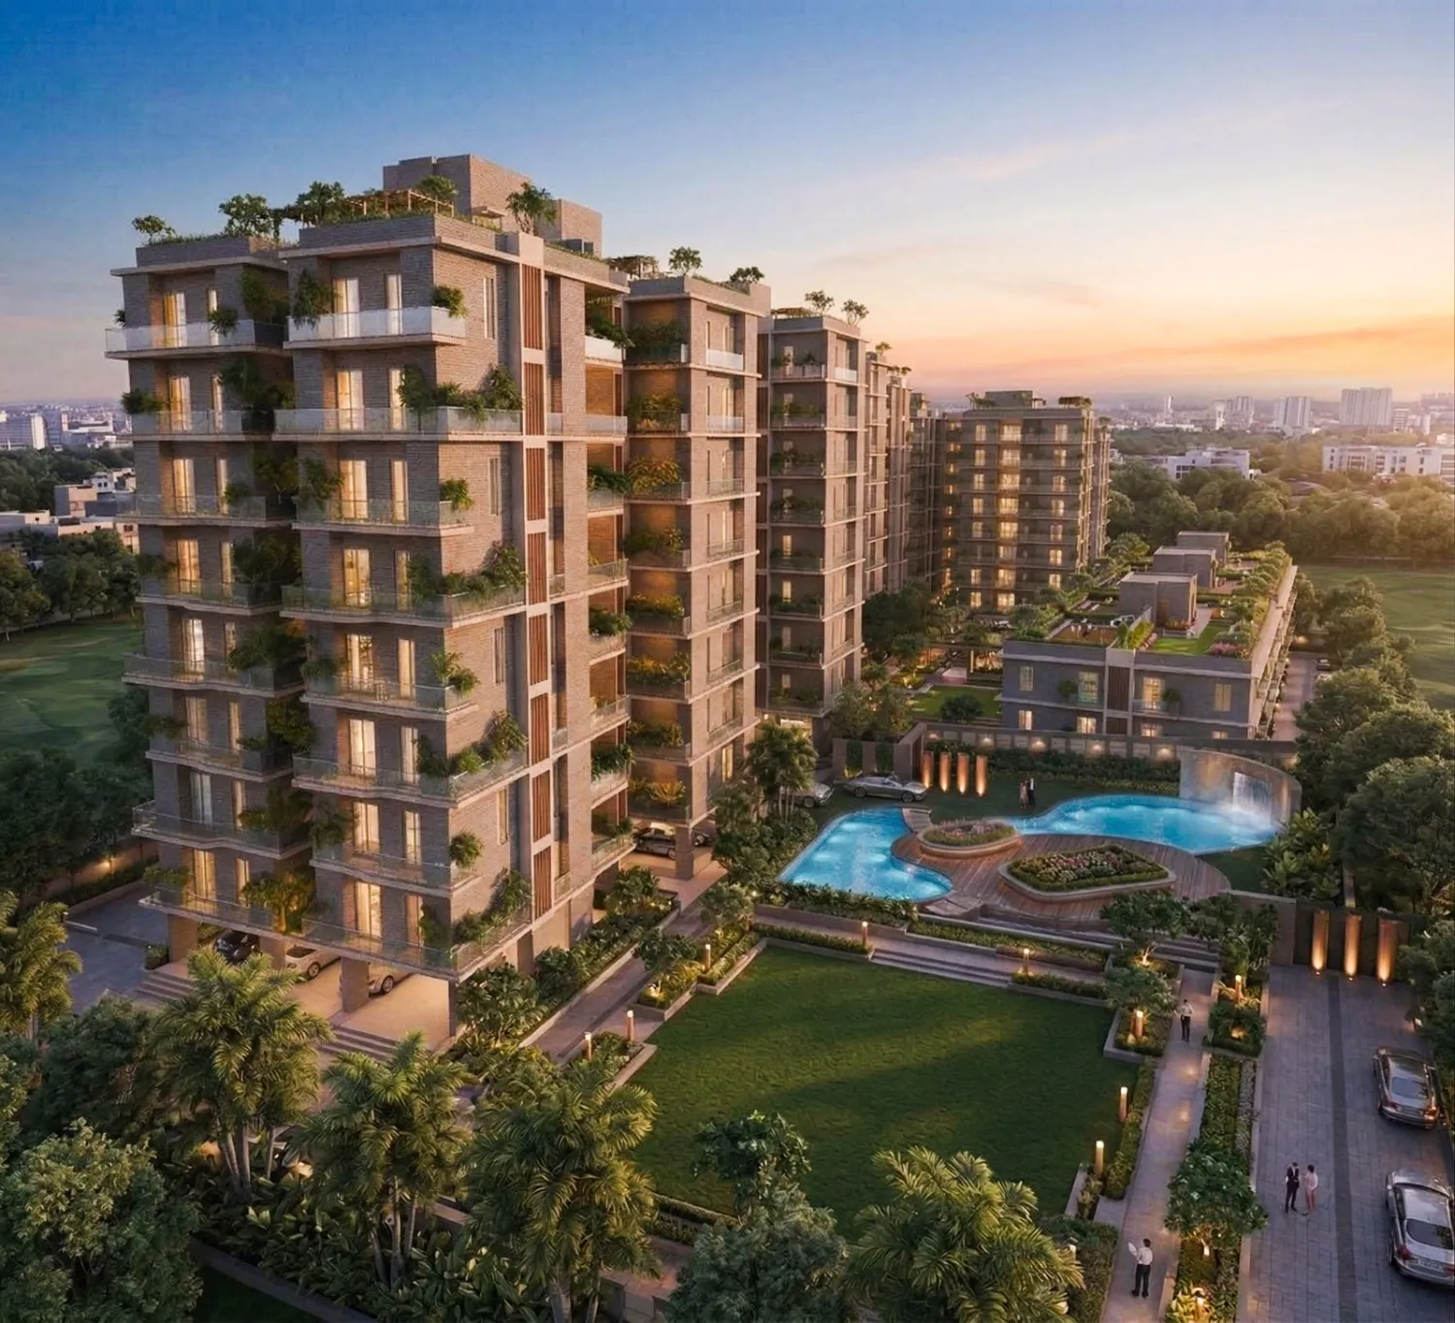
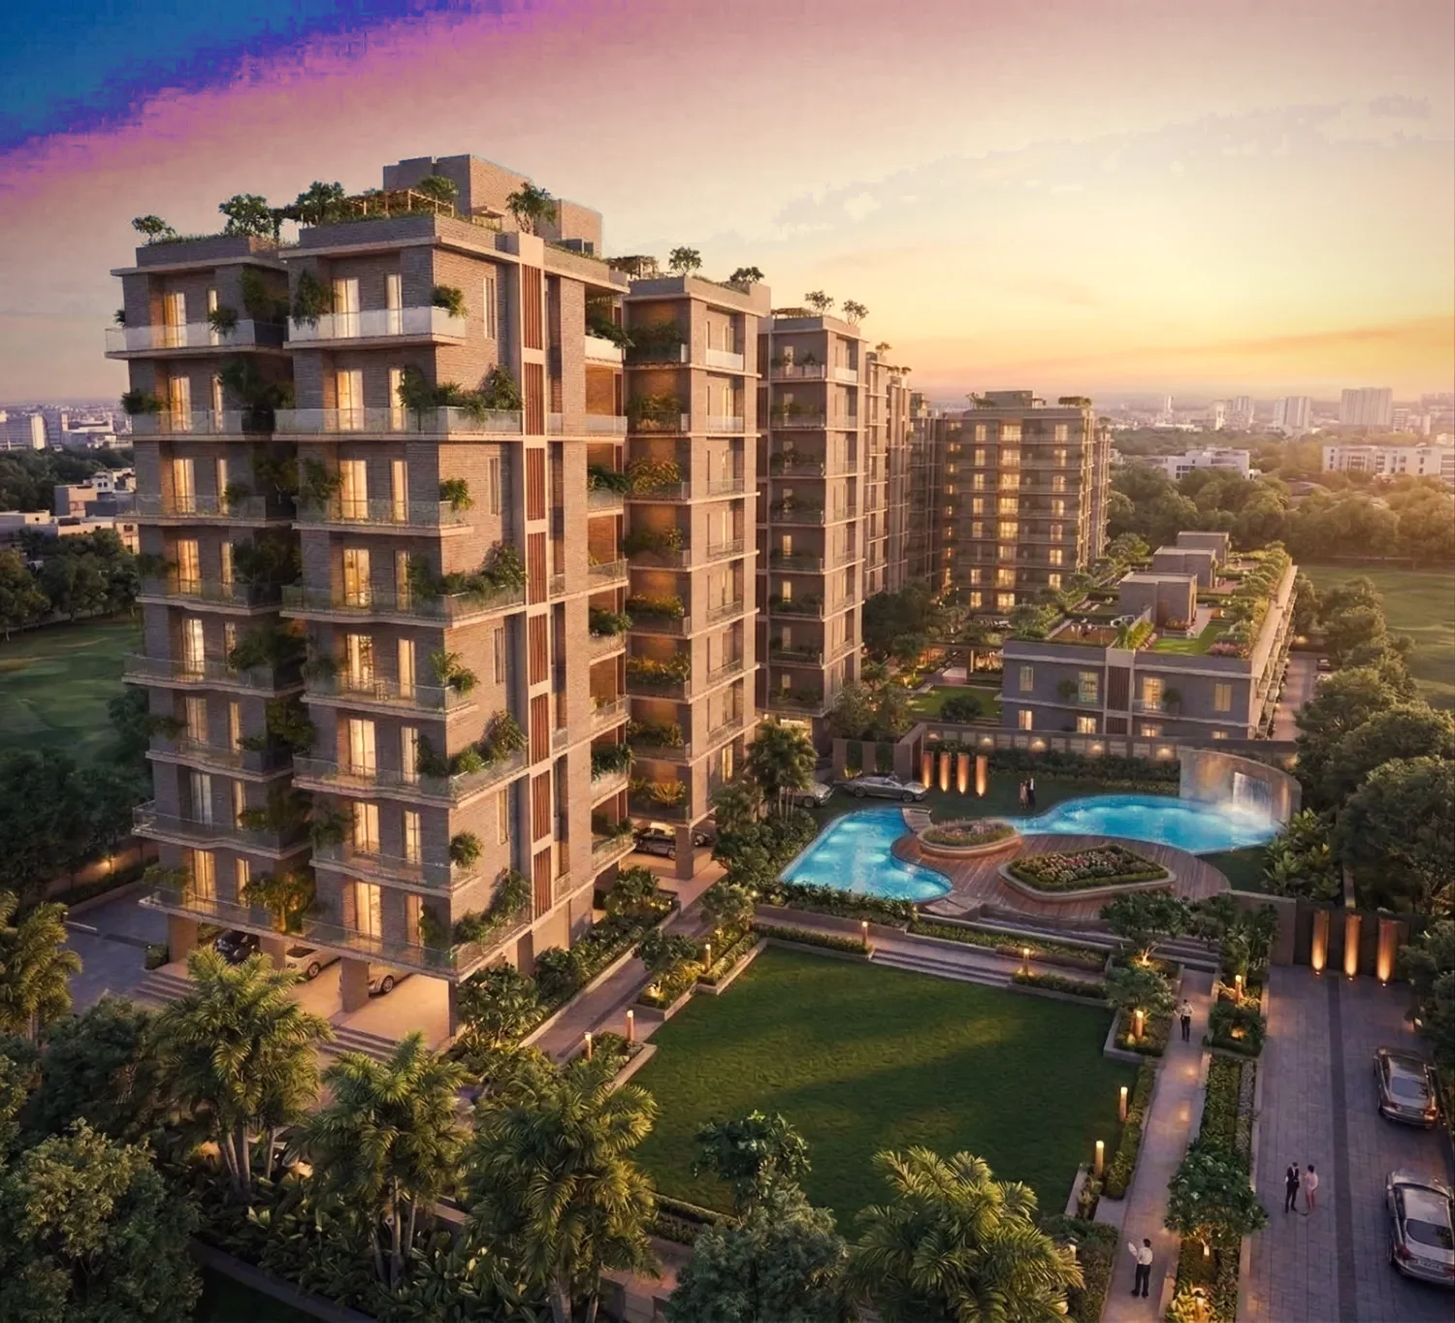
Luxe layer, warmer gallery and a calmer, steadier page
- New switchable assets/css/ananta-luxe.css: arrival curtain with the ANANTA mark,
  larger headlines, eyebrow diamonds, gold-leaf numerals and buttons, framed plan
  sheet, night-sky mobile menu, and a closing mark that lights up with the scroll
- Hero caption low-left on its own navy shadow; no continuous hero motion
- Closing image and compact footer fill the last screen with the logo on top
- Gentler golden-hour grades for Highlights and gallery images 1, 2 and 4
- Removed film grain and the blur-in on photos; no sideways overflow; steadier
  bottom bar flush to the edge; no blue tap flash
- Footer without the contact column; "Airport" instead of "NSCBI Airport"

diff --git a/assets/css/ananta.css b/assets/css/ananta.css
@@ -19,7 +19,7 @@
 *{box-sizing:border-box;-webkit-tap-highlight-color:transparent}
 html{scroll-behavior:smooth;scroll-padding-top:calc(var(--header) + 16px);scrollbar-width:none}
 html::-webkit-scrollbar{display:none}
-body{margin:0;background:var(--ivory);color:var(--ink);font:400 15px/1.75 var(--sans);-webkit-font-smoothing:antialiased;text-rendering:optimizeLegibility}
+body{margin:0;overflow-x:clip;background:var(--ivory);color:var(--ink);font:400 15px/1.75 var(--sans);-webkit-font-smoothing:antialiased;text-rendering:optimizeLegibility}
 body:has(dialog[open]:modal),.menu-open{overflow:hidden}
 h1,h2,h3,p,figure{margin:0}
 ul{list-style:none;margin:0;padding:0}
@@ -108,13 +108,20 @@ h3{font-family:var(--serif);font-weight:500;font-size:26px;line-height:1.2}
 .hero-image{width:100%;height:100%;max-width:none;object-fit:cover;object-position:center;animation:hero-in 2.4s var(--ease) both}
 .hero::before{content:'';position:absolute;inset:0 0 auto;z-index:1;height:18%;background:linear-gradient(180deg,#0c102066,#0c102000);pointer-events:none}
 /* The brochure's line, set high in the sky (never centred at the bottom) */
-.hero-caption{position:absolute;z-index:2;bottom:clamp(64px,11vh,120px);left:50%;width:min(1240px,calc(100% - 112px));transform:translateX(-50%);color:var(--white);text-shadow:0 2px 24px #0c102099;animation:caption-in 1.6s .3s var(--ease) both}
+.hero-caption{position:absolute;z-index:2;isolation:isolate;bottom:clamp(64px,11vh,120px);left:50%;width:min(1240px,calc(100% - 112px));transform:translateX(-50%);color:var(--white);text-shadow:0 2px 18px #0c1020cc,0 0 2px #0c102080}
+.hero-caption::before{content:'';position:absolute;z-index:-1;left:-12%;top:-34%;width:min(900px,120%);height:170%;background:radial-gradient(ellipse 58% 52% at 34% 56%,#0c1020f0 0%,#0c1020b8 42%,#0c102000 74%);filter:blur(10px);pointer-events:none}
+.hero-caption>*{animation:rise 1.4s var(--ease) both}
+.hero-caption>:nth-child(1){animation-delay:.35s}.hero-caption>:nth-child(2){animation-delay:.55s}.hero-caption>:nth-child(4){animation-delay:1.05s}
+.hero-caption>.horizon-rule{transform-origin:left;animation:draw 1.6s .85s var(--ease) both}
+@keyframes rise{from{opacity:0;transform:translateY(18px);filter:blur(6px)}to{opacity:1;transform:none;filter:none}}
+@keyframes draw{from{transform:scaleX(0)}to{transform:scaleX(1)}}
 .hero-caption .eyebrow{margin-bottom:18px;color:var(--champagne-soft)}
 .hero-caption h1{max-width:9.5em;font-size:clamp(48px,5.6vw,88px);line-height:1}
-.hero-caption h1 em{color:#ffdcae}
+.hero-caption h1 em{padding-right:.06em;background:linear-gradient(100deg,#ffd9a8 0%,#ffd9a8 35%,#fff4e2 48%,#f0b56a 60%,#ffd9a8 75%,#ffd9a8 100%) 0 0/260% 100%;-webkit-background-clip:text;background-clip:text;color:transparent;text-shadow:none;filter:drop-shadow(0 2px 14px #0c1020cc);animation:shimmer 7s 1.8s ease-in-out infinite}
+@keyframes shimmer{0%,55%{background-position:100% 0}100%{background-position:0 0}}
 @keyframes caption-in{from{opacity:0;transform:translate(-50%,16px)}to{opacity:1;transform:translateX(-50%)}}
 .hero::after{content:'';position:absolute;inset:auto 0 0;z-index:1;height:62%;background:linear-gradient(180deg,#0c102000 0%,#0c10204d 32%,#0c1020b3 66%,#0c1020eb 88%,var(--night) 100%);pointer-events:none}
-.hero-caption .horizon-rule{margin-top:26px}
+.hero-caption .horizon-rule{margin-top:26px;width:150px}
 .hero-place{margin-top:18px;font-size:11px;font-weight:500;letter-spacing:.3em;text-transform:uppercase;color:#ffffffc7}
 @keyframes hero-in{from{transform:scale(1.06)}to{transform:none}}
 
@@ -131,7 +138,10 @@ h3{font-family:var(--serif);font-weight:500;font-size:26px;line-height:1.2}
 .overview-actions .btn-brochure:hover{background:#ffffff14;border-color:var(--champagne);color:var(--white)}
 /* Facts sit on a smoked-glass band so the runway lights never wash them out; 1px gaps draw the grid */
 .project-facts{display:grid;grid-template-columns:repeat(6,minmax(0,1fr));gap:1px;margin-top:180px;background:#ffffff26;border:1px solid #ffffff26;backdrop-filter:blur(10px) saturate(1.3);-webkit-backdrop-filter:blur(10px) saturate(1.3)}
-.project-facts>div{display:flex;flex-direction:column;gap:12px;padding:28px 26px;background:#0c10204d;text-shadow:0 1px 10px #0009}
+.project-facts>div{position:relative;display:flex;flex-direction:column;gap:12px;padding:28px 26px;background:#0c10204d;text-shadow:0 1px 10px #0009;transition:background .6s var(--ease)}
+.project-facts>div::before{content:'';position:absolute;inset:-1px 0 auto;height:1px;background:linear-gradient(90deg,transparent,var(--amber),#fff0d6,var(--rose),transparent);box-shadow:0 0 12px #f0b56a99;transform:scaleX(0);transition:transform .7s var(--ease)}
+.project-facts>div:hover{background:#2a22564d}
+.project-facts>div:hover::before{transform:scaleX(1)}
 .project-facts span{font-size:10px;font-weight:500;line-height:1.4;letter-spacing:.24em;text-transform:uppercase;color:var(--on-dark-muted)}
 .project-facts strong{display:flex;align-items:baseline;gap:6px;white-space:nowrap;font-family:var(--serif);font-weight:400;font-size:clamp(26px,2.2vw,34px);line-height:1;color:var(--champagne-soft)}
 .project-facts small{font-family:var(--sans);font-size:11px;letter-spacing:.12em;text-transform:uppercase;color:var(--on-dark-muted)}
@@ -331,15 +341,14 @@ details[open] .directory-plus,details[open] .plus{transform:rotate(45deg)}
 .enquiry-form>button[type=submit]{width:100%;margin-top:20px}
 
 /* Footer: the one horizon image on the page, cropped tall: sky and sign above, runway beneath the details */
-.horizon-strip{position:relative;height:400px;display:flex;align-items:center;justify-content:center;text-align:center;background:#000 url('../images/curated/horizon.webp') center/cover no-repeat}
-.horizon-strip::before{content:'';position:absolute;inset:0;background:linear-gradient(180deg,#0c1020b3 0%,#0c102000 38%,#0c102000 62%,var(--night) 100%)}
-.horizon-strip>div{position:relative;transform:translateY(-40px)}
+.horizon-strip{position:relative;height:400px;display:flex;align-items:flex-start;justify-content:center;padding-top:clamp(64px,9vh,96px);text-align:center;background:#000 url('../images/curated/horizon.webp') center/cover no-repeat}
+.horizon-strip::before{content:'';position:absolute;inset:0;background:linear-gradient(180deg,#0c1020cc 0%,#0c102066 26%,#0c102000 44%,#0c102000 70%,var(--night) 100%)}
+.horizon-strip>div{position:relative}
 .horizon-strip img{width:170px;margin:auto}
 .horizon-strip p{margin-top:24px;font-size:11px;letter-spacing:.42em;color:var(--champagne-soft)}
 @media (min-width:701px){
-  .horizon-strip{height:470px;align-items:flex-end;padding-bottom:58px}
-  .horizon-strip::before{background:linear-gradient(180deg,#0c1020b3 0%,#0c102000 26%,#0c102000 46%,#0c1020b3 78%,var(--night) 100%)}
-  .horizon-strip>div{transform:none}
+  .horizon-strip{height:470px;padding-top:clamp(96px,14vh,140px)}
+  .horizon-strip img{width:190px}
 }
 .footer{position:relative;background:linear-gradient(180deg,var(--night),#0a0e1c);padding:32px 0 32px;font-size:14px;color:var(--on-dark-muted)}
 
@@ -387,8 +396,8 @@ dialog::backdrop{background:#0d0a07cc;backdrop-filter:blur(6px)}
 
 /* Headline accents: the second phrase in italic, like the brochure's "Limitless" */
 h1 em,h2 em,h3 em{font-style:italic;font-weight:400}
-h2 em,h3 em{color:var(--gold-deep)}
-:is(.overview,.highlights,.details-section,.gallery-section,.legacy) h2 em{color:var(--champagne)}
+h2 em,h3 em{padding-right:.06em;background:linear-gradient(100deg,#7d5a1c 0%,var(--gold) 45%,#c99a4c 70%,var(--gold-deep) 100%);-webkit-background-clip:text;background-clip:text;color:transparent}
+:is(.overview,.highlights,.details-section,.gallery-section,.legacy) :is(h2,h3) em{background-image:linear-gradient(100deg,#f3c7c6 0%,var(--rose) 30%,var(--amber) 70%,var(--champagne) 100%)}
 .overview h2 em{padding-right:.06em;background:linear-gradient(100deg,#f3c7c6 0%,var(--rose) 30%,var(--amber) 75%,var(--champagne) 100%);-webkit-background-clip:text;background-clip:text;color:transparent}
 
 /* Big numbers use lining figures so they sit level */
@@ -400,8 +409,12 @@ h2 em,h3 em{color:var(--gold-deep)}
 :is(.portrait,.detail-feature,.gallery-image,.amenity):hover::before{inset:10px;border-color:#f5dfb399}
 
 /* Reveal on scroll (only once JS confirms it can run) */
-.reveal-ready .reveal{opacity:0;transform:translateY(24px);transition:opacity 1.1s var(--ease),transform 1.1s var(--ease);transition-delay:var(--reveal-delay,0ms)}
-.reveal-ready .reveal.is-in{opacity:1;transform:none}
+.reveal-ready .reveal{opacity:0;transform:translateY(24px);filter:blur(6px);transition:opacity 1.2s var(--ease),transform 1.2s var(--ease),filter 1.2s var(--ease);transition-delay:var(--reveal-delay,0ms)}
+.reveal-ready .reveal.is-in{opacity:1;transform:none;filter:none}
+/* Photographs and the map only fade and rise: blurring large images makes scrolling stutter */
+.reveal-ready :is(.portrait,.details-lead,.loc>div,#floor-panel,.all-amenities).reveal{filter:none}
+/* The site-visit form wears the horizon along its top edge */
+.visit .enquiry-form::before{content:'';position:absolute;inset:-1px -1px auto;height:3px;background:var(--horizon);box-shadow:0 0 18px #e09ca566}
 
 /* Desktop: at the end of the page the beam blooms brighter and wider */
 @media (min-width:1001px){
@@ -459,6 +472,7 @@ h2 em,h3 em{color:var(--gold-deep)}
   .hero-image{object-position:center 60%}
   .hero::before{height:20%}
   .hero-caption{bottom:calc(44px + env(safe-area-inset-bottom));width:calc(100% - 40px)}
+  .hero-caption::before{left:-20px;top:-40%;width:calc(100% + 40px);height:180%;background:radial-gradient(ellipse 80% 55% at 40% 58%,#0c1020f2 0%,#0c1020b3 45%,#0c102000 78%)}
   .hero-place{font-size:9px;letter-spacing:.24em}
   .hero-caption .horizon-rule{margin-top:20px}
   .hero-caption .eyebrow{margin-bottom:14px;font-size:9px;letter-spacing:.26em}
@@ -518,20 +532,23 @@ h2 em,h3 em{color:var(--gold-deep)}
   .enquiry-form{padding:28px 20px 24px}
   .enquiry-form h3{font-size:24px}
   .frow.two{grid-template-columns:1fr;gap:0}
-  .horizon-strip{height:280px}
+  .horizon-strip{height:280px;padding-top:40px}
   .horizon-strip img{width:130px}
   .horizon-strip p{font-size:10px;letter-spacing:.3em}
   .footer{padding:20px 0 calc(28px + env(safe-area-inset-bottom))}
 
-  .footer-grid{grid-template-columns:1fr;gap:26px}
-  .footer-brand p:first-child{font-size:22px}
-  .footer h2{margin-bottom:8px}
-  .footer-bottom{display:block;margin-top:48px}
-  .footer-bottom>div{margin-top:12px}
+  /* Compact on phones, so the closing image above always fits on screen with it */
+  .footer-grid{grid-template-columns:1fr 1fr;gap:18px 20px;font-size:12px;line-height:1.65}
+  .footer-brand{grid-column:1/-1}
+  .footer-brand p:first-child{font-size:20px;max-width:none}
+  .footer-brand p+p{margin-top:6px;font-size:10px}
+  .footer h2{margin-bottom:6px;font-size:9px}
+  .footer-bottom{margin-top:22px;padding-top:14px;gap:12px;font-size:10px}
+  .footer-bottom>div{gap:14px}
   .image-dialog{width:calc(100vw - 16px);height:calc(100svh - 24px)}
   .brochure-dialog .enquiry-form{padding:44px 22px 28px}
   /* Quick contact: a floating smoked-plum bar with a lit edge, the visit as a gold bar inside it */
-  .mobile-actions{position:fixed;left:0;right:0;bottom:0;z-index:33;display:grid;grid-template-columns:1.15fr 1fr;gap:5px;min-height:62px;padding:6px 6px calc(6px + env(safe-area-inset-bottom));border:0;border-top:1px solid #e3c27e38;background:linear-gradient(110deg,#0c1020ed 0%,#221c4aed 55%,#3e2c5eed 100%);backdrop-filter:blur(14px) saturate(1.3);-webkit-backdrop-filter:blur(14px) saturate(1.3);box-shadow:0 20px 40px -18px #000c,inset 0 1px 0 #ffffff12;transition:transform .5s var(--ease)}
+  .mobile-actions{position:fixed;left:0;right:0;bottom:0;z-index:33;display:grid;grid-template-columns:1.15fr 1fr;gap:5px;min-height:62px;padding:6px 6px calc(6px + env(safe-area-inset-bottom));border:0;border-top:1px solid #e3c27e38;background:linear-gradient(110deg,#0c1020ed 0%,#221c4aed 55%,#3e2c5eed 100%);box-shadow:0 20px 40px -18px #000c,inset 0 1px 0 #ffffff12;transition:transform .5s var(--ease)}
   .mobile-actions::before{content:'';position:absolute;left:16%;right:16%;top:-1px;height:1px;background:linear-gradient(90deg,transparent,#e09ca5,#fff0d6 50%,#f0b56a,transparent);box-shadow:0 0 10px #f0b56a99}
   .mobile-actions a{display:flex;align-items:center;justify-content:center;gap:10px;font-size:10px;font-weight:500;letter-spacing:.16em;text-transform:uppercase;text-decoration:none;color:var(--on-dark)}
   .mobile-actions a:first-child{background:linear-gradient(100deg,#f5dfb3 0%,#e3c27e 55%,#d6a565 100%);color:var(--ink)}

diff --git a/assets/css/ananta-luxe.css b/assets/css/ananta-luxe.css
@@ -1,0 +1,59 @@
+/* Ananta Luxe: the bold layer of premium finishes on top of ananta.css.
+   Switch it off by removing <link rel="stylesheet" href="assets/css/ananta-luxe.css"> from index.html;
+   the page works and looks complete without it. */
+
+/* 1. Arrival: the night opens on the ANANTA mark, a horizon draws beneath it, then the curtain lifts */
+main::before{content:'';position:fixed;inset:0;z-index:300;pointer-events:none;
+  background:url('../images/web/ananta-logo.webp') center calc(50% - 34px)/min(230px,52vw) auto no-repeat,
+    radial-gradient(ellipse 55% 30% at 50% 58%,#e09ca538,#f0b56a12 45%,transparent 72%),var(--night);
+  animation:luxe-curtain 2.1s .1s var(--ease) both}
+main::after{content:'';position:fixed;z-index:301;top:calc(50% + 22px);left:50%;width:min(360px,64vw);height:1px;pointer-events:none;
+  background:linear-gradient(90deg,transparent,#e09ca5 20%,#fff1d6 50%,#f0b56a 80%,transparent);box-shadow:0 0 18px 1px #f0b56aaa;
+  transform:translateX(-50%) scaleX(0);animation:luxe-line 2.1s .1s var(--ease) both}
+@keyframes luxe-curtain{0%,58%{opacity:1;transform:none}100%{opacity:0;transform:translateY(-3%);visibility:hidden}}
+@keyframes luxe-line{0%{transform:translateX(-50%) scaleX(0);opacity:1}40%{transform:translateX(-50%) scaleX(1);opacity:1}62%{opacity:1}100%{transform:translateX(-50%) scaleX(1.4);opacity:0;visibility:hidden}}
+/* The hero waits for the curtain */
+.hero-image{animation-delay:1.3s}
+.hero-caption>:nth-child(1){animation-delay:1.65s}.hero-caption>:nth-child(2){animation-delay:1.85s}.hero-caption>:nth-child(4){animation-delay:2.35s}
+.hero-caption>.horizon-rule{animation-delay:2.15s}
+
+.hero-caption h1{font-size:clamp(54px,6.4vw,104px);letter-spacing:-.015em}
+
+/* 3. Bigger, editorial headlines */
+h2{font-size:clamp(44px,5.2vw,80px);line-height:.98}
+.section-top{margin-bottom:64px}
+
+/* 4. Eyebrows wear a small gold diamond before the line */
+.eyebrow::after{content:'';order:-1;width:5px;height:5px;border:1px solid currentColor;transform:rotate(45deg);opacity:.8}
+
+/* 5. Gold-leaf numerals */
+.project-facts strong,.legacy-stats strong,.airport b{background:linear-gradient(180deg,#fff4de 0%,#f5dfb3 38%,#e3c27e 62%,#b98a3c 100%);-webkit-background-clip:text;background-clip:text;color:transparent;filter:drop-shadow(0 0 16px #f0b56a33)}
+.legacy-stats strong{font-size:clamp(44px,4.4vw,70px)}
+
+/* 6. Buttons in gold leaf */
+.btn-p{border:1px solid transparent;background:linear-gradient(var(--night),var(--night)) padding-box,linear-gradient(100deg,#f5dfb3,#b3832d 50%,#f5dfb3) border-box;color:var(--champagne-soft)}
+.btn-p:hover{background:linear-gradient(100deg,#f5dfb3,#e3c27e 55%,#d6a565) padding-box,linear-gradient(100deg,#f5dfb3,#b3832d 50%,#f5dfb3) border-box;color:var(--ink)}
+.directions-button,.text-link{letter-spacing:.24em}
+
+/* 7. The plan sheet framed like a print: a double gold rule */
+#floor-panel{outline:1px solid #c99a4c55;outline-offset:8px}
+
+/* 8. Menu: a full night sky with large serif links that rise in turn */
+.mobile-menu[open]{background:radial-gradient(ellipse 90% 45% at 50% 105%,#e09ca540,transparent 70%),linear-gradient(180deg,var(--night),#231c4c 70%,#3a2a5e)}
+.mobile-menu nav a{font-size:34px;font-style:italic;padding:16px 0;animation:rise .9s var(--ease) both}
+.mobile-menu nav a:nth-child(2){animation-delay:.06s}.mobile-menu nav a:nth-child(3){animation-delay:.12s}.mobile-menu nav a:nth-child(4){animation-delay:.18s}.mobile-menu nav a:nth-child(5){animation-delay:.24s}.mobile-menu nav a:nth-child(6){animation-delay:.3s}
+
+/* 9. Closing strip: the mark lights up gradually as you arrive (--glow runs 0 to 1 with the scroll) */
+.horizon-strip{overflow:hidden;--glow:0}
+.horizon-strip>div{isolation:isolate}
+.horizon-strip>div::before{content:'';position:absolute;left:50%;top:44%;z-index:-1;width:min(440px,100%);height:180px;transform:translate(-50%,-50%);background:radial-gradient(closest-side,#ffd9a840,#f0b56a1f 45%,transparent);filter:blur(6px);opacity:var(--glow);pointer-events:none}
+.horizon-strip img{filter:drop-shadow(0 0 calc(var(--glow) * 4px) #fff4dc99) drop-shadow(0 0 calc(var(--glow) * 16px) #f0b56a99)}
+.horizon-strip p{color:#fff0d6;text-shadow:0 0 calc(var(--glow) * 12px) #f0b56aaa}
+
+@media (max-width:700px){
+  .hero-caption h1{font-size:clamp(40px,12.6vw,58px)}
+  h2{font-size:44px}
+  .legacy-stats strong{font-size:42px}
+  .gallery-image span{font-size:20px}
+}
+@media (prefers-reduced-motion:reduce){main::before,main::after{display:none}}

diff --git a/index.html b/index.html
@@ -26,6 +26,8 @@
 
 <script>(function(){var d=document.documentElement;try{if(localStorage.getItem('ananta_access')==='confirmed'||document.cookie.split('; ').indexOf('ananta_access=confirmed')>-1)return;}catch(e){}d.classList.add('is-locked');})();</script>
 <link rel="stylesheet" href="assets/css/ananta.css">
+<!-- Luxe layer: remove the next line to switch the bold premium finishes off -->
+<link rel="stylesheet" href="assets/css/ananta-luxe.css">
 <link rel="preload" as="image" href="assets/images/web/hero-1600.webp" media="(min-width:701px)" fetchpriority="high">
 <link rel="preload" as="image" href="assets/images/web/hero-mobile-warm.webp" media="(max-width:700px)" fetchpriority="high">
 </head>
@@ -77,7 +79,7 @@
       <p class="ferr" data-ferr role="alert"></p>
       <button class="btn btn-p" type="submit" data-label="Request a site visit">Request a site visit</button>
     </form></div></section>
-<section class="horizon-strip" data-horizon-y="0.62" data-horizon-y-wide="0.36" aria-label="Limitless living"><div><img src="assets/images/web/ananta-logo.webp" alt="Ananta at Dream Gurukul" width="1189" height="333" loading="lazy"><p>LIMITLESS LIVING BEGINS HERE</p></div></section>
+<section class="horizon-strip" data-horizon-y="0.66" data-horizon-y-wide="0.64" aria-label="Limitless living"><div><img src="assets/images/web/ananta-logo.webp" alt="Ananta at Dream Gurukul" width="1189" height="333" loading="lazy"><p>LIMITLESS LIVING BEGINS HERE</p></div></section>
 </main>
 <footer class="footer"><div class="container"><div class="footer-grid"><div class="footer-brand"><p>A residential development by Jain Group</p><p>RERA: WBRERA/P/NOR/2026/004487</p></div><div><h2>Visit us</h2><p>Ward 26, Dream Gurukul, 154 Old Jessore Rd<br> Ganganagar, Fortune City, Madhyamgram<br> Kolkata, West Bengal 700132</p></div><div><h2>Corporate office</h2><p>Jain Tower, 44/2A Hazra Road<br> Near Dover Road Crossing, Kolkata 700019</p></div></div><div class="footer-bottom"><span>© 2026 Jain Group. All rights reserved.</span><div><button type="button" data-legal="privacy">Privacy notice</button><button type="button" data-legal="terms">Terms &amp; disclaimer</button></div></div></div></footer>
 <dialog class="image-dialog" id="image-dialog" aria-labelledby="image-caption"><div class="image-dialog-bar"><p id="image-caption"></p><button type="button" data-dismiss aria-label="Close image">×</button></div><div class="image-scroll"><img id="dialog-image" alt=""></div><div class="zoom-controls"><button type="button" data-zoom="-1" aria-label="Zoom out">−</button><button type="button" data-zoom="1" aria-label="Zoom in">+</button></div></dialog>

diff --git a/assets/js/revision.js b/assets/js/revision.js
@@ -39,8 +39,14 @@
  // At the very end the closing image and the footer fill the screen together, so the image with the
  // logo sits at the top. Sized on load and on width changes only (not when a phone's address bar moves).
  var strip=document.querySelector('.horizon-strip'),footer=document.querySelector('.footer'),lastWidth=0;
- function fitEnding(){if(!strip||!footer||innerWidth===lastWidth)return;lastWidth=innerWidth;strip.style.height=Math.max(wide.matches?400:260,innerHeight-footer.offsetHeight)+'px';}
- addEventListener('resize',function(){fitEnding();alignHorizons();});fitEnding();alignHorizons();
+ function fitEnding(){if(!strip||!footer||innerWidth===lastWidth)return;lastWidth=innerWidth;strip.style.height=Math.max(wide.matches?400:220,innerHeight-footer.offsetHeight)+'px';}
+ function refit(){lastWidth=0;fitEnding();alignHorizons();}
+ // The closing mark lights up gradually: --glow is 0 as the strip enters the screen and 1 once it reaches the top.
+ function glow(){if(!strip)return;var t=strip.getBoundingClientRect().top,p=Math.max(0,Math.min(1,1-t/innerHeight));strip.style.setProperty('--glow',(p*p).toFixed(3));}
+ addEventListener('scroll',function(){requestAnimationFrame(glow);},{passive:true});
+ addEventListener('resize',function(){fitEnding();alignHorizons();});fitEnding();alignHorizons();glow();
+ // Web fonts change the footer's height: measure again once they (and the page) have loaded.
+ addEventListener('load',refit);if(document.fonts)document.fonts.ready.then(refit);
  var directory=Array.from(document.querySelectorAll('.amenity-directory details'));directory.forEach(function(d){d.addEventListener('toggle',function(){if(d.open)directory.forEach(function(o){if(o!==d)o.open=false;});});});
 })();
 /* Floor level: a styled menu that mirrors the native select (which stays for no-JS and keeps the change logic). */
